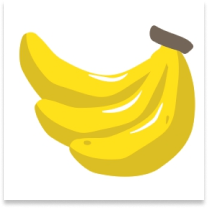
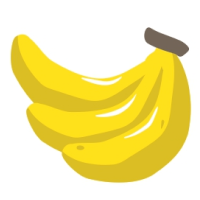
ch banana bug, add game end

Changed region(s): [[0.03, 0.12, 0.96, 0.93], [0.0, 0.96, 0.99, 0.99]]

diff --git a/card_game.js b/card_game.js
@@ -1,41 +1,42 @@
 //<<<<<<< HEAD
-let random_num = Math.floor(Math.random() * 24);
-let bool = true;
-let a = [];
-let b = [];
-let Red = Math.floor(Math.random() * 255);
-let Blue = Math.floor(Math.random() * 255)
-let Green = Math.floor(Math.random() * 255)
+
 let BackCards = []
+let apple = 'url(./images/apple.png)'
+let banana = 'url(./images/banana.png)'
+let blackberries = 'url(./images/blackberries.png)'
+let grapes = 'url(./images/grapes.png)'
+let kiwi = 'url(./images/kiwi.png)'
+let lemon = 'url(./images/lemon.png)'
+let lime = 'url(./images/lime.png)'
+let orange = 'url(./images/orange.png)'
+let pear = 'url(./images/pear.png)'
+let rosehip = 'url(./images/rosehip.png)'
+let strawberry = 'url(./images/strawberry.png)'
+let watermelon = 'url(./images/watermelon.png)'
 
+let fruits_arr = [apple, banana, blackberries, grapes, kiwi, lemon, lime, orange, pear, rosehip, strawberry, watermelon];
 
-let apple = "url(./images/apple.png)"
-let banana =  'url(./images/banana.png)'
-let blackberries =  'url(./images/blackberries.png)'
-let grapes =  'url(./images/grapes.png)'
-let kiwi =  'url(./images/kiwi.png)'
-let lemon =  'url(./images/lemon.png)'
-let lime =  'url(./images/lime.png)'
-let orange =  'url(./images/orange.png)'
-let pear =  'url(./images/pear.png)'
-let roseship =  'url(./images/roseship.png)'
-let strawberry =  'url(./images/strawberry.png)'
-let watermelon =  'url(./images/watermelon.png)'
+let score = 0;
 
-let fruits_arr = [apple,banana,blackberries,grapes,kiwi,lemon,lime,orange,pear,roseship,strawberry,watermelon];
+let game_end = document.getElementById("end_game");
+let reload_button = document.getElementById("game_reload");
 
-// console.log(fruits_arr);
-
+function Reload_game(){
+    document.location.reload();
+}
+reload_button.addEventListener("click",Reload_game);
 
 // ///////////////////////////////////////////////////////////////
 let FirstPartNumsArray = [];
 let SecondPartNumsArray = [];
 
-for (let i = 0; i <= 12; i++) {
+for (let i = 0; i < 12; i++) {
     FirstPartNumsArray.push(i);
     SecondPartNumsArray.push(i)
 }
 
+
+let RandomNumsArr = RandNumbers([...FirstPartNumsArray, ...SecondPartNumsArray]);
 function RandNumbers(array) {
 
     let j = 0;
@@ -51,9 +52,8 @@ function RandNumbers(array) {
     return array;
 }
 
-let RandomNumsArr = [...RandNumbers(FirstPartNumsArray), ...RandNumbers(SecondPartNumsArray)]
-
 console.log(RandomNumsArr);
+
 
 let indexOfCards = [];
 let cards = [];
@@ -64,36 +64,96 @@ for (let i = 0; i <= 23; i++) {
 }
 
 
-//debugger
-let done_array = [];
-
-for (let i = 0; i <= 23; i++) {
-    BackCards[i].style.backgroundImage = fruits_arr[RandomNumsArr[i]];
-}
-//console.log(done_array);
 const RandomCOlorsofCards = () => {
 
     BackCards.forEach((item, index) => {
 
+
         indexOfCards.forEach(num => {
+
             if (index == num) {
-                item.style.backgroundImage = fruits_arr[index]
-                item.style.backgroundSize = "cover"
+                item.style = `
+                background-image :${fruits_arr[RandomNumsArr[index]]};
+                background-size:cover;
+                
+                `
             }
         })
+
+
     })
+
+
 }
 
 
-
 const Cards_flip = () => {
+
+    let current = []
+
+
     cards.forEach((it, index) => {
-        it.addEventListener("click", () => {
+
+        it.ariaValueNow = RandomNumsArr[index]
+        it.addEventListener("click", function () {
             indexOfCards.forEach(num => {
                 if (index == num) {
                     it.style = `
                     transform:rotateY(180deg);
-                    `;
+                    pointer-events: none;
+                    `
+                    current.push(it);
+                    console.log(current.length);
+                    
+                     if (current.length % 2 === 0/* && current[0] !== undefined && current[1] !== undefined*/) {
+
+                        setTimeout(() => {
+
+
+
+                            if (+current[0].ariaValueNow === +current[1].ariaValueNow) {
+                                current[0].style = `
+                                visibility: hidden;
+                                opacity:0;
+                                transition: opacity 0s;
+                                `;
+
+                                current[1].style = `
+                                visibility: hidden;
+                                opacity:0;
+                                transition: opacity 0s;
+                                `
+                                score++;
+                                
+                                if(true){
+                                    end_game.style.top = "30%";
+                                
+                                }
+                                
+                                /*return*/
+
+                            } else {
+
+                                current[0].style = `
+
+                                transform:rotateY(0deg);
+
+                                `
+
+                                    ;
+                                current[1].style = `
+
+                                transform:rotateY(0deg);
+                                `
+
+
+                            }
+                            current = []
+                        }, 500)
+
+
+                    }
+
                 }
             })
         });
@@ -101,7 +161,8 @@ const Cards_flip = () => {
     )
 }
 
+// score = 12
+
 Cards_flip();
 RandomCOlorsofCards();
 
-///////////////////////////////////////////////////////////////

diff --git a/card_game.css b/card_game.css
@@ -1,5 +1,4 @@
 body{
-    /* background-color: black; */
     margin: 0;
 }
 .main{
@@ -19,17 +18,14 @@ body{
     position: relative;
     top: 0;
     left: 0;
-    /* width: 100%;
-    height: 100%; */
     width: 100px;
     height: 100px;
     border-radius: 10px;
     transform-style: preserve-3d;
-    transition: all 0.8s ease;
+    transition: all 0.5s ease;
     margin: 6px;
     border: 1px rgba(0, 0, 0, 0.5) solid;
     cursor: pointer;
-    /*transform: rotateY(180deg);*/
 }
 .card_front{
     width: 100px;
@@ -41,21 +37,12 @@ body{
     position: absolute;
     top: 0;
     left: 0;
-    /* width: 100%;
-    height: 100%; */
     border-radius: 10px;
     backface-visibility: hidden;
     overflow: hidden;
-    /* background: #ffc728; */
     color: #000;
 }
 .card_back{
-    /* position: absolute;
-    top: 0;
-    left: 0; */
-    /* width: 100px;
-    height: 100px; */
-    /* background-color: navy; */
     position: absolute;
     top: 0;
     left: 0;
@@ -67,8 +54,35 @@ body{
     background: #fafafa;
     color: #333;
     text-align: center;
-    transform: rotateY(0deg);
-}
-/* .card:active{
     transform: rotateY(180deg);
-} */
+}
+.end_game_flex{
+    display: flex;
+    justify-content: center;
+}
+.end_game{
+    position: absolute;
+    top: -50%;
+    width: 35vw;
+    height: 45vh;
+    background-image: linear-gradient(#333,#999);
+    z-index: 1;
+    transition: all 0.8s ease;
+}
+.end_game_text{
+    font-family: cursive;
+    font-size: 25px;
+    text-align: center;
+}
+.button_flex{
+    display: flex;
+    justify-content: center;
+}
+.game_reload{
+    width: 150px;
+    height: 90px;
+    background-color: #333;
+    border-radius: 12px;
+    border: 0px black solid;
+    cursor: pointer;
+}

diff --git a/card_game.html b/card_game.html
@@ -10,6 +10,14 @@
 </head>
 
 <body>
+    <div class="end_game_flex" id="end_game_flex">
+        <div class="end_game" id="end_game">
+            <p class="end_game_text">Game end</p>
+            <div class="button_flex">
+                <button class="game_reload" id="game_reload">Try again</button>
+            </div>
+        </div>
+    </div>
     <div class="main">
         <div class="card_div">
 
